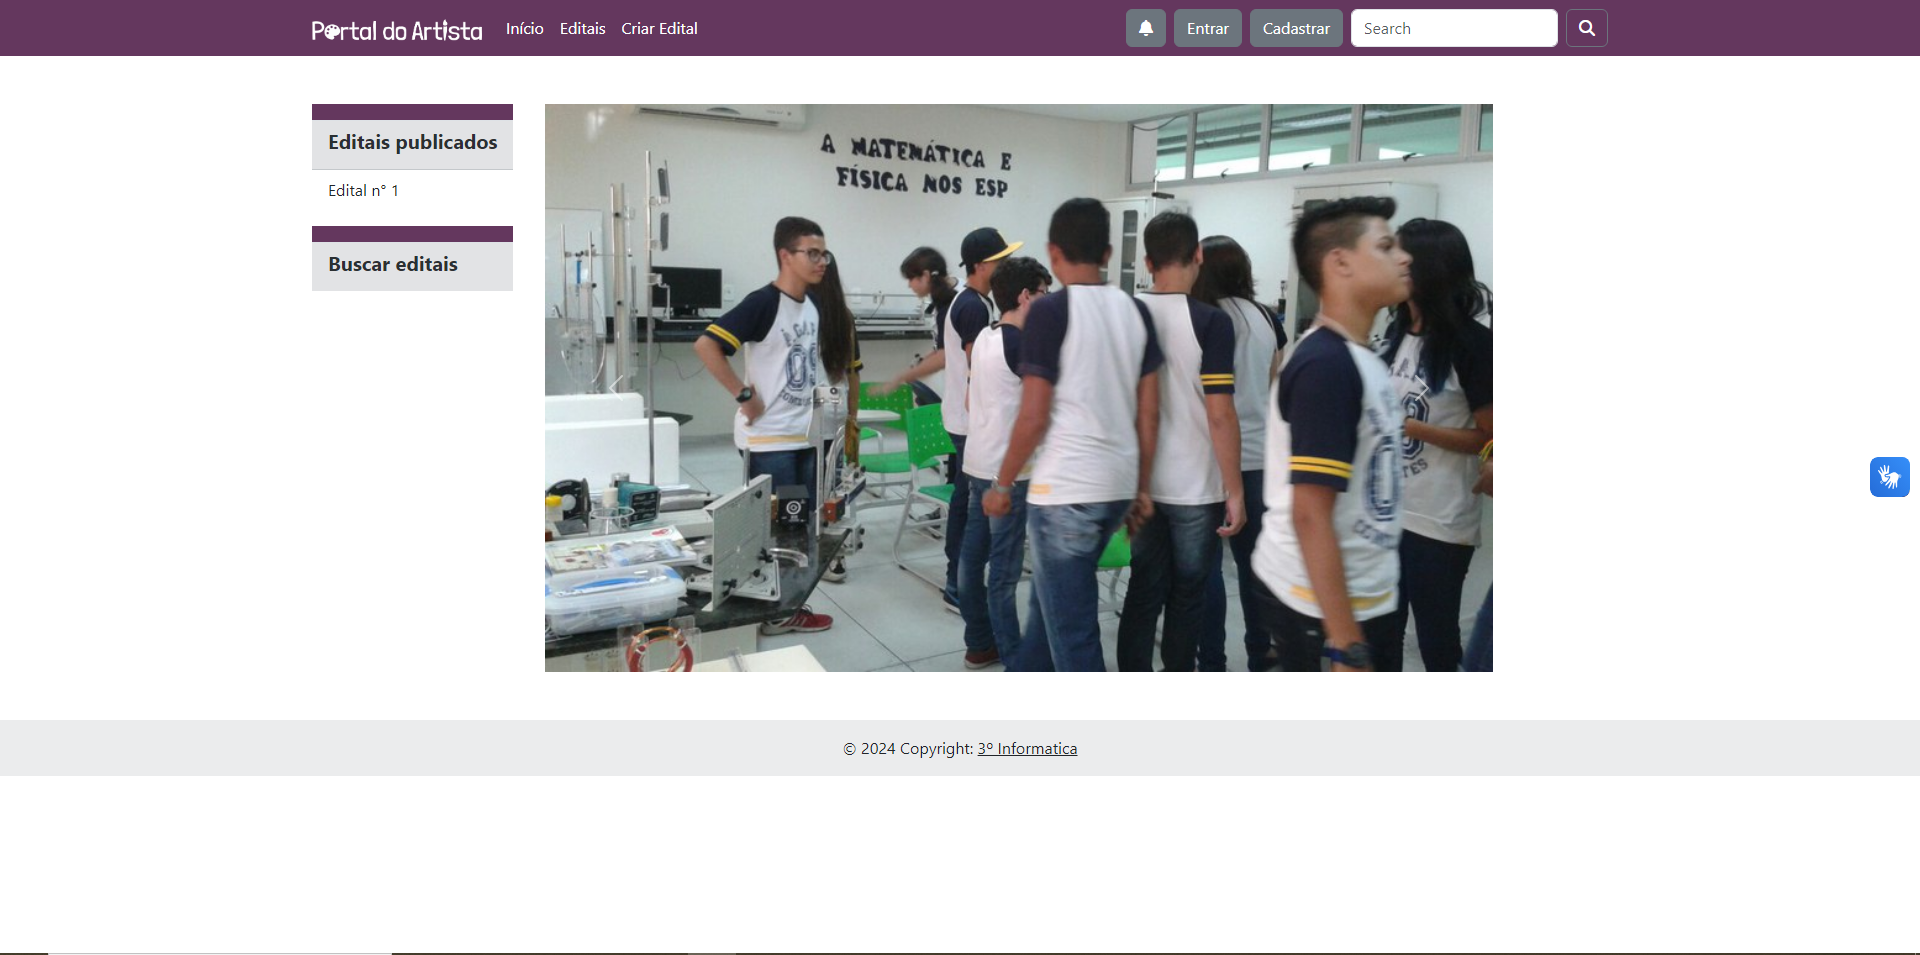
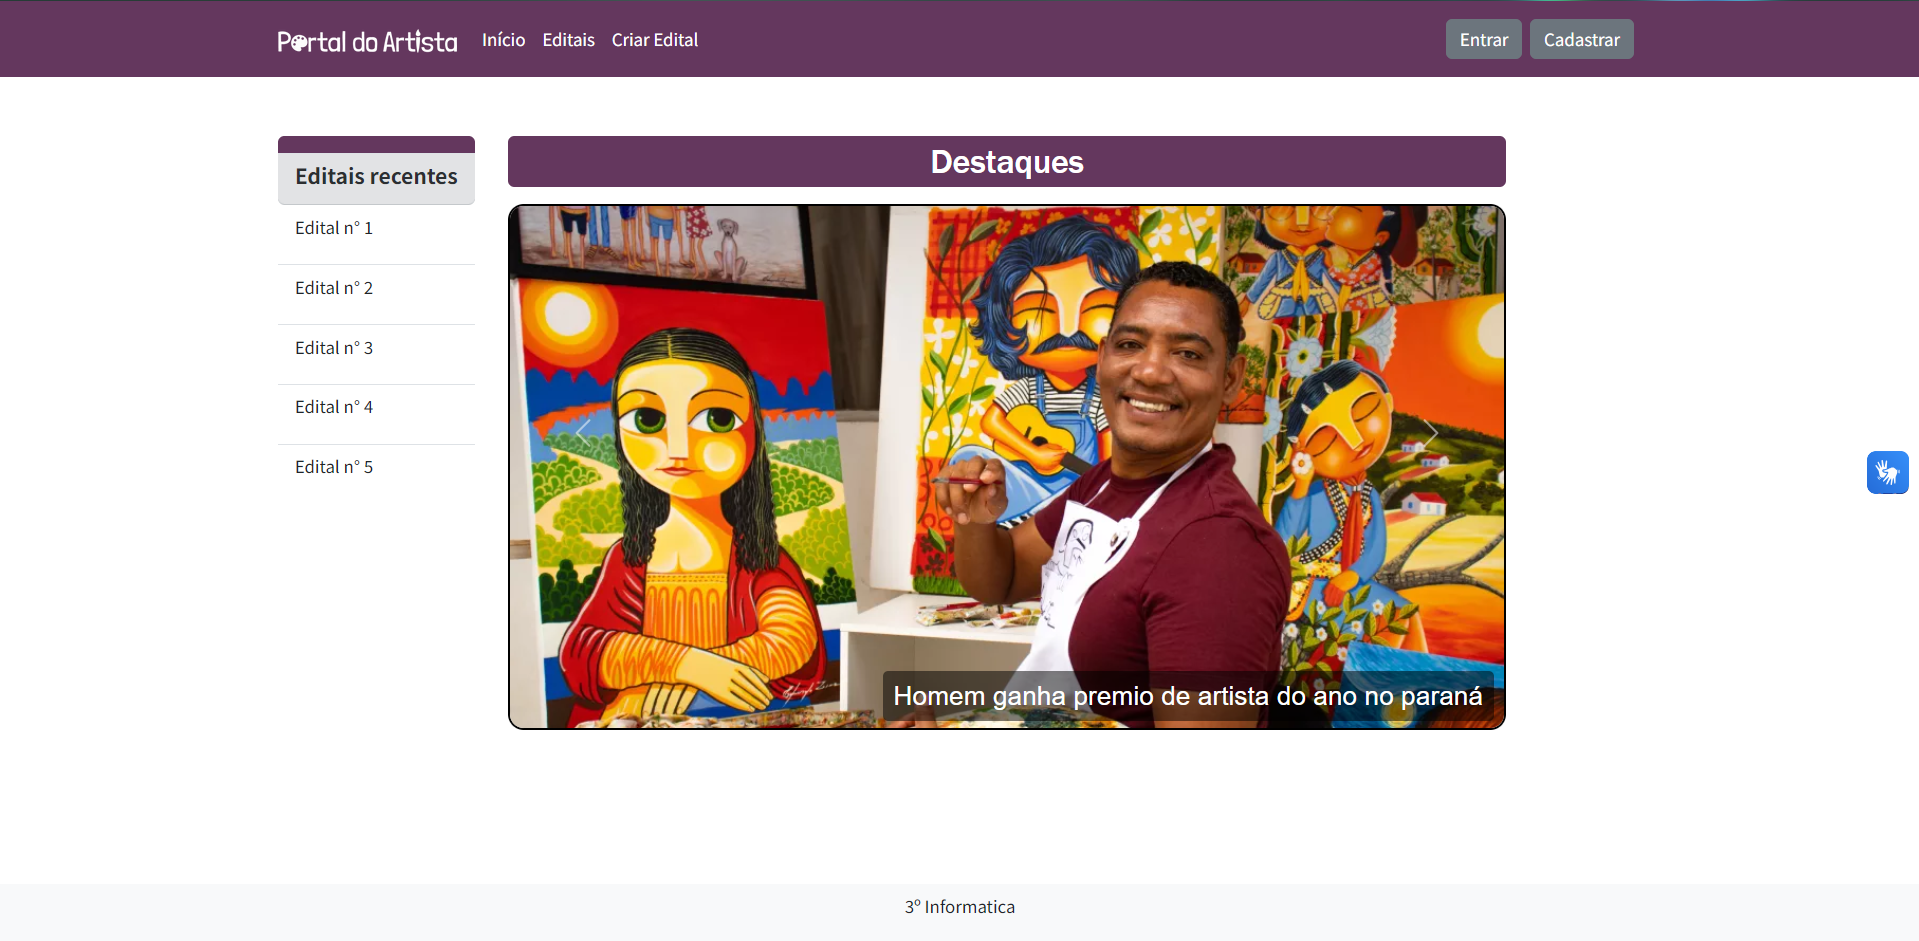
atualizar o readme com as páginas novas

diff --git a/README.md b/README.md
@@ -1,4 +1,18 @@
 # Portal do Artista 🖌
-Projeto para a disciplina de Linguagem de Programação II do curso de Informática - IFPB
+Projeto para a disciplina de Linguagem de Programação II do curso técnico de Informática - IFPB
 
+Alunos:
+- Mateus Mendes
+- Matheus Faelson
+- Ricardo
+- Henrique
+- Danilo
+
+Para salvar os dados foi utilizado o banco de dados "postgresql"
+
+# Print das telas do sistema:
+## Página inicial:
 ![Imagem do Projeto](./.github/images/image1.png)
+
+## Página de listar os editais:
+![Imagem do Projeto](./.github/images/image2.png)
